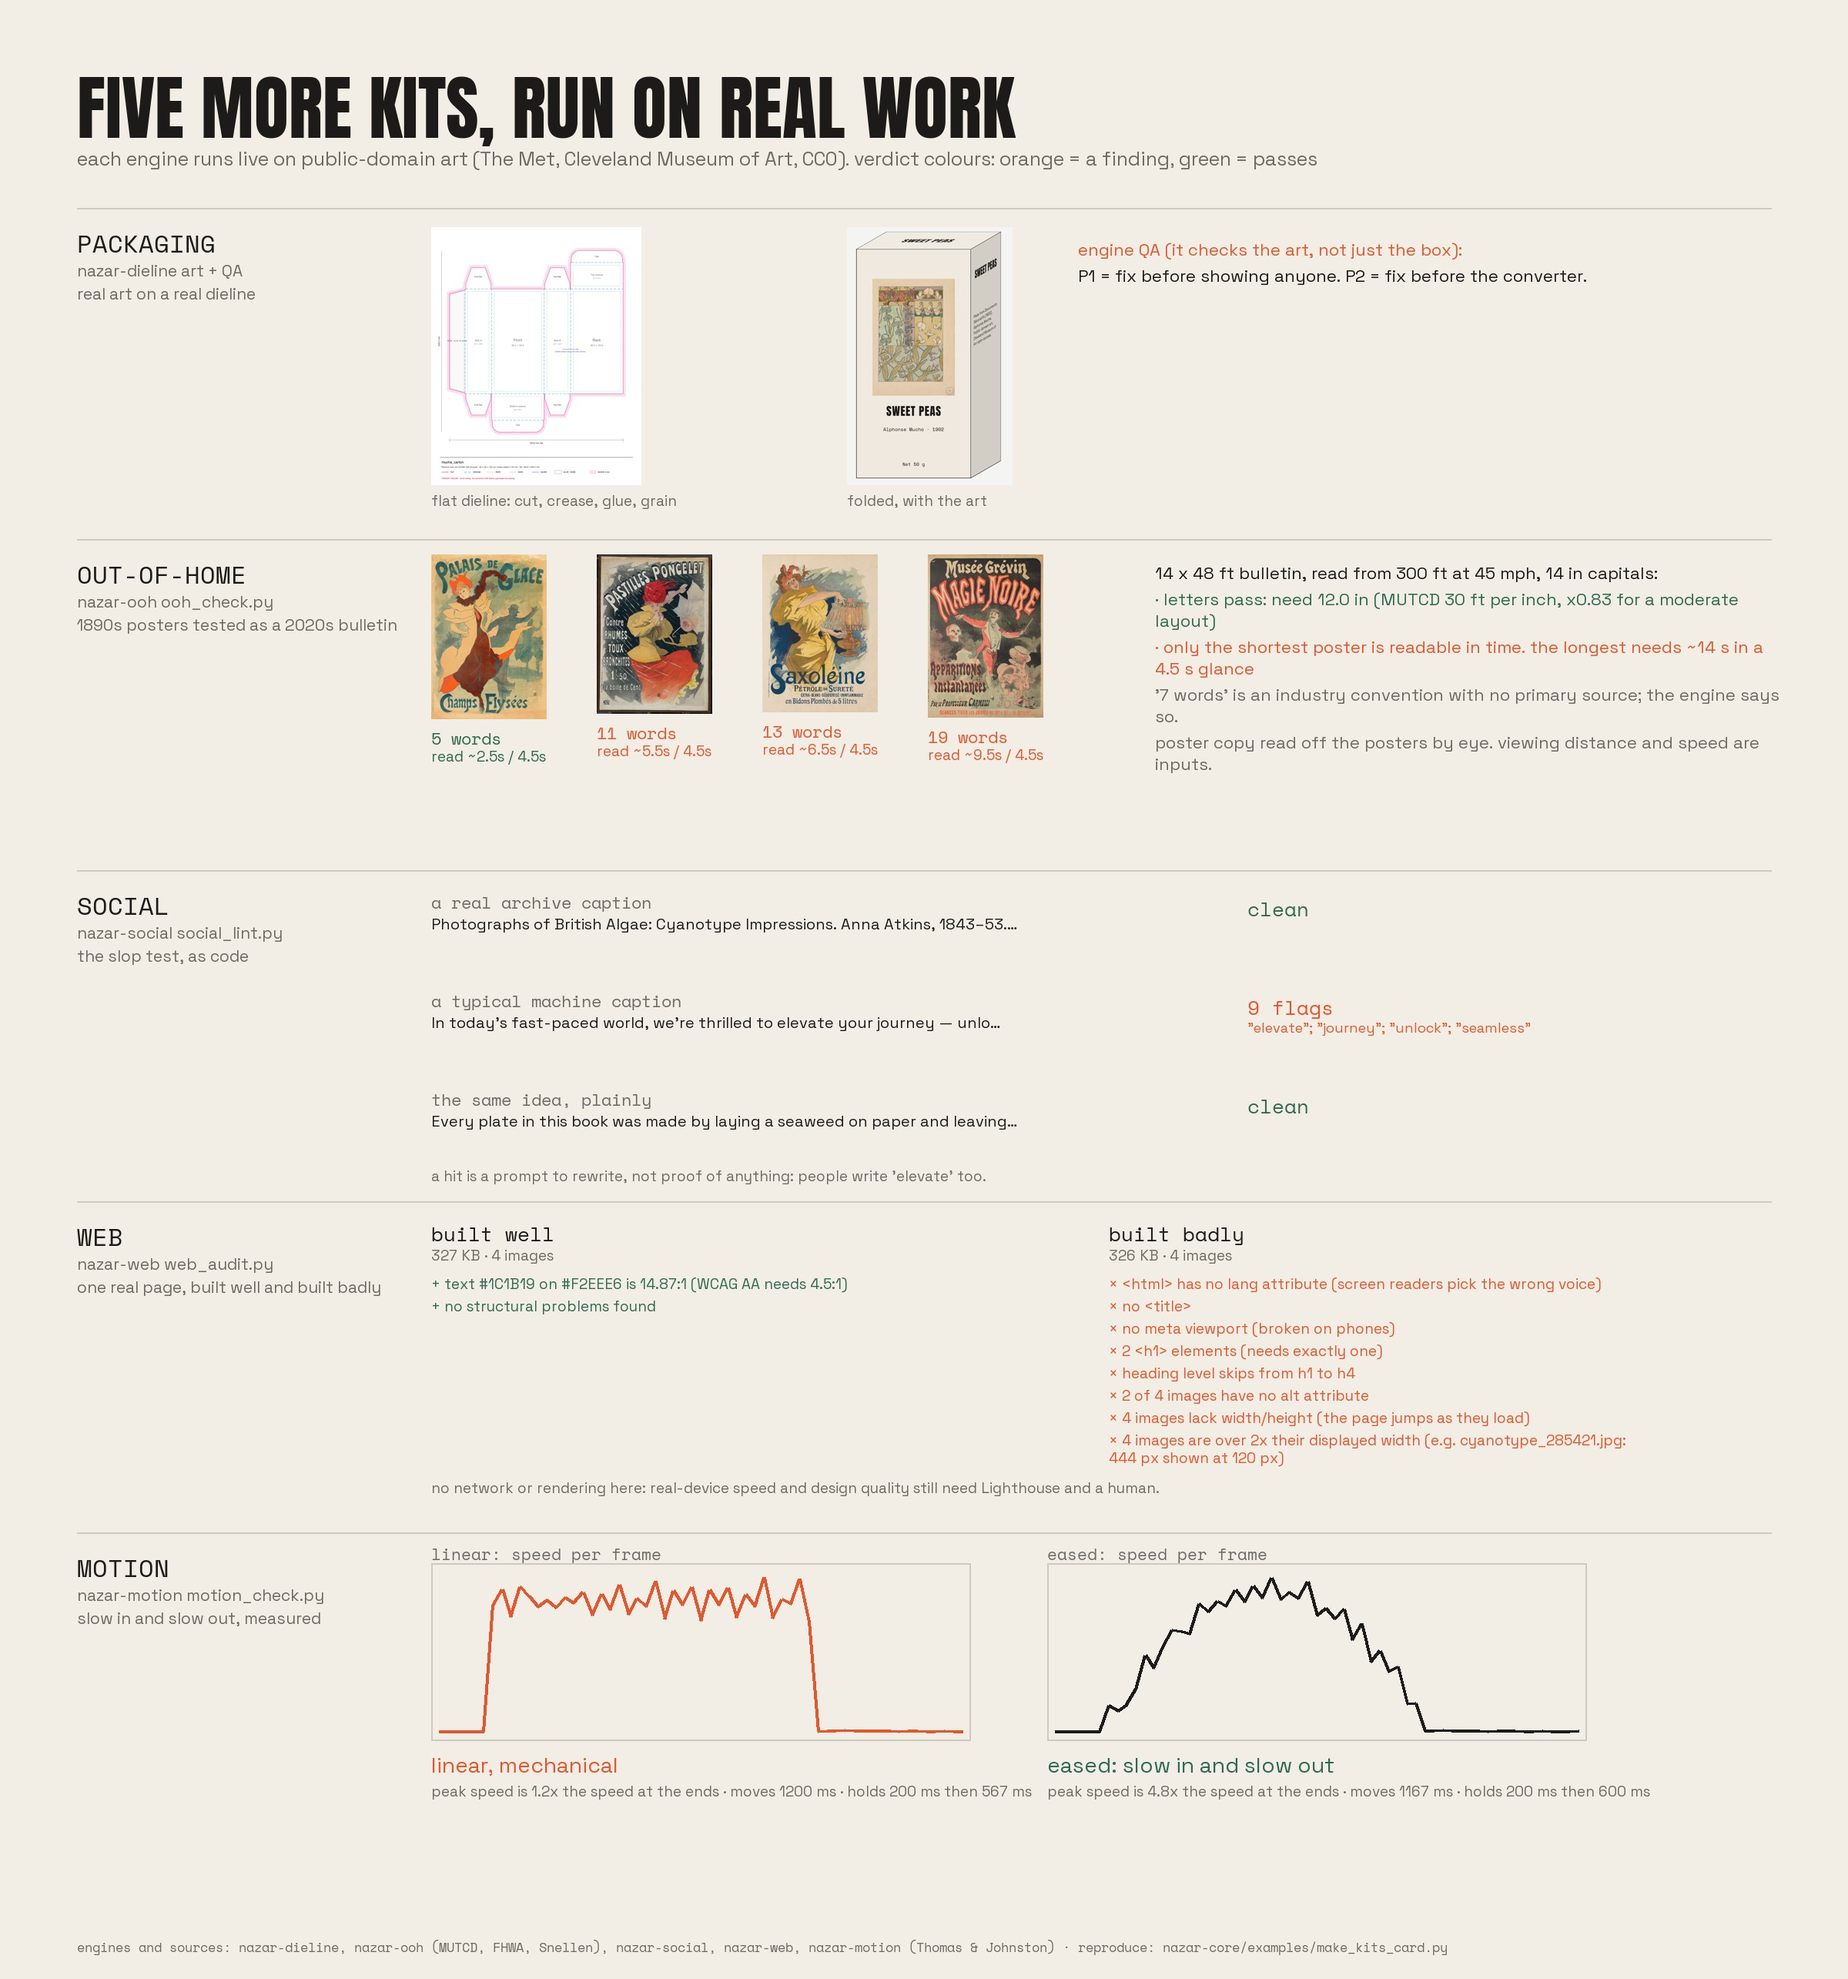
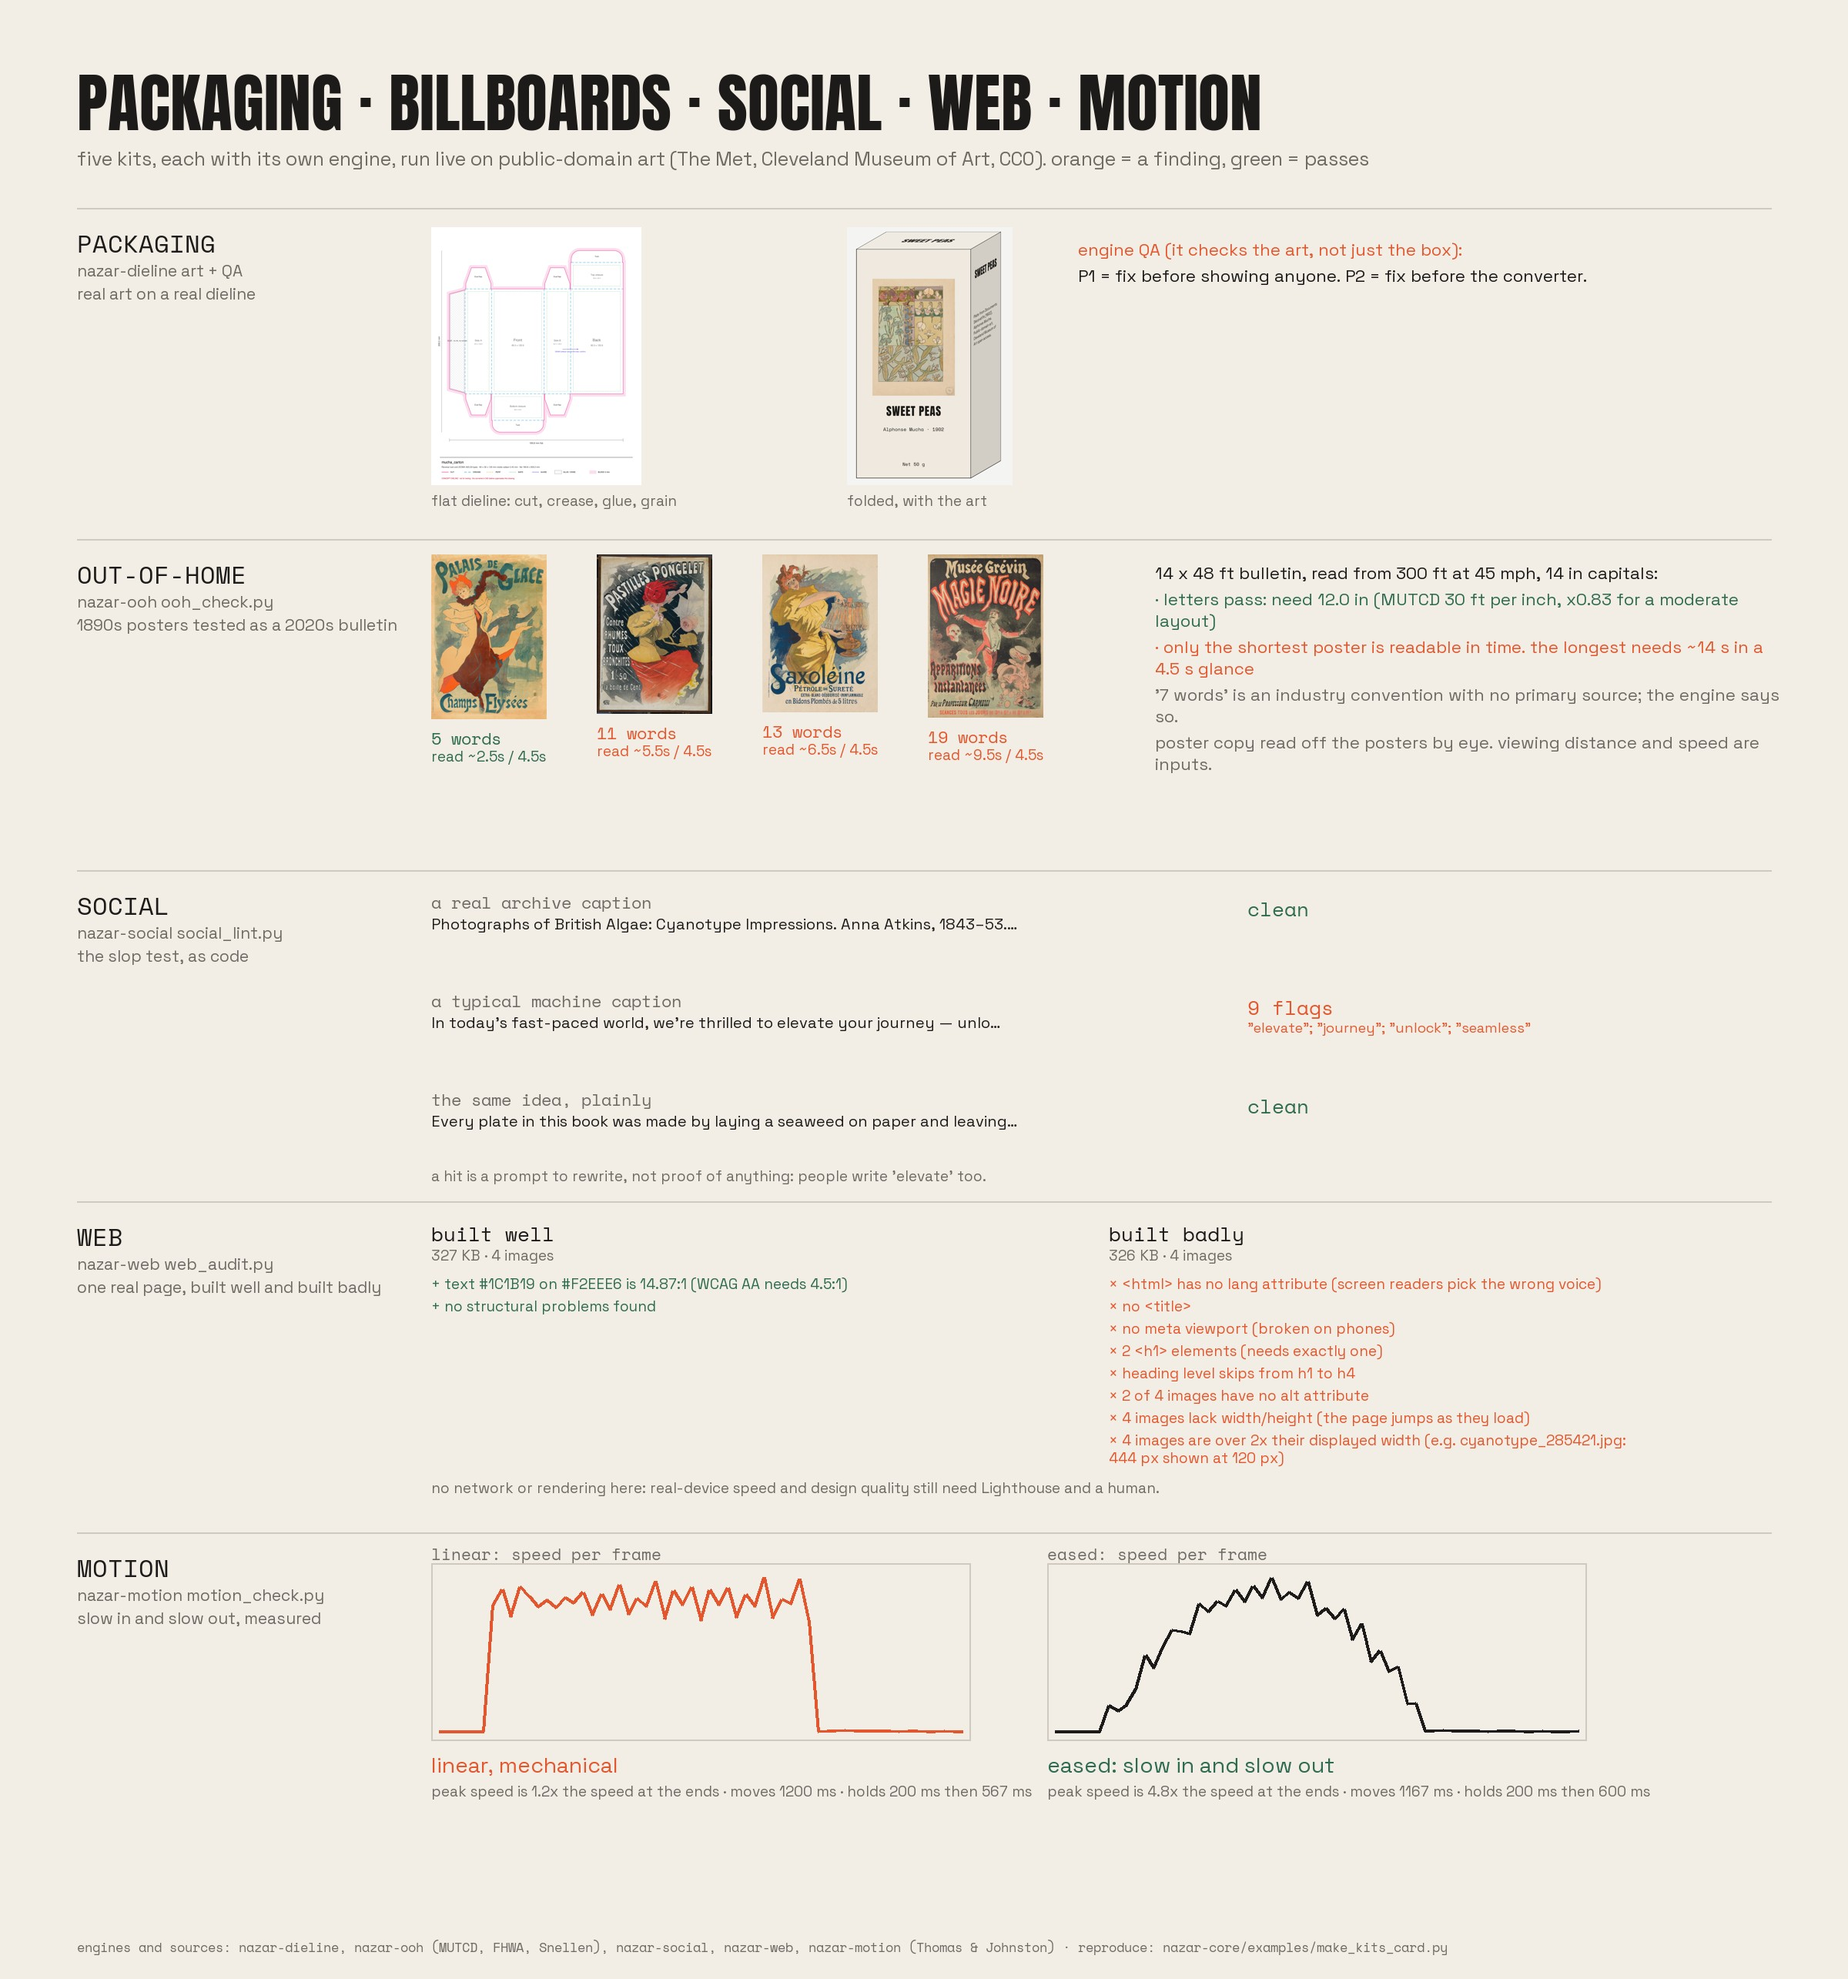
Retitle the kits card so it stands alone in the gallery
The image said 'Five more kits', which meant nothing at the top of the README after the
restructure. Now 'Packaging, billboards, social, web, motion'; alt text updated to match.

Changed region(s): [[0.0312, 0.0311, 0.6875, 0.0934]]

diff --git a/nazar-core/examples/make_kits_card.py b/nazar-core/examples/make_kits_card.py
@@ -32,8 +32,8 @@ cy, cma, pack_png, pack_qa, out = sys.argv[1:6]
 W, M, RH = 2400, 100, 430
 im = Image.new("RGB", (W, 330 + 5 * RH + 90), PAPER)
 d = ImageDraw.Draw(im)
-d.text((M, 70), "FIVE MORE KITS, RUN ON REAL WORK", font=anton(92), fill=INK)
-d.text((M, 190), "each engine runs live on public-domain art (The Met, Cleveland Museum of Art, CC0). verdict colours: orange = a finding, green = passes", font=grot(25), fill=GREY)
+d.text((M, 70), "PACKAGING · BILLBOARDS · SOCIAL · WEB · MOTION", font=anton(84), fill=INK)
+d.text((M, 190), "five kits, each with its own engine, run live on public-domain art (The Met, Cleveland Museum of Art, CC0). orange = a finding, green = passes", font=grot(25), fill=GREY)
 mark = lambda lvl: ACC if lvl in ("fail", "warn", "P1", "P2") else GOOD
 
 
